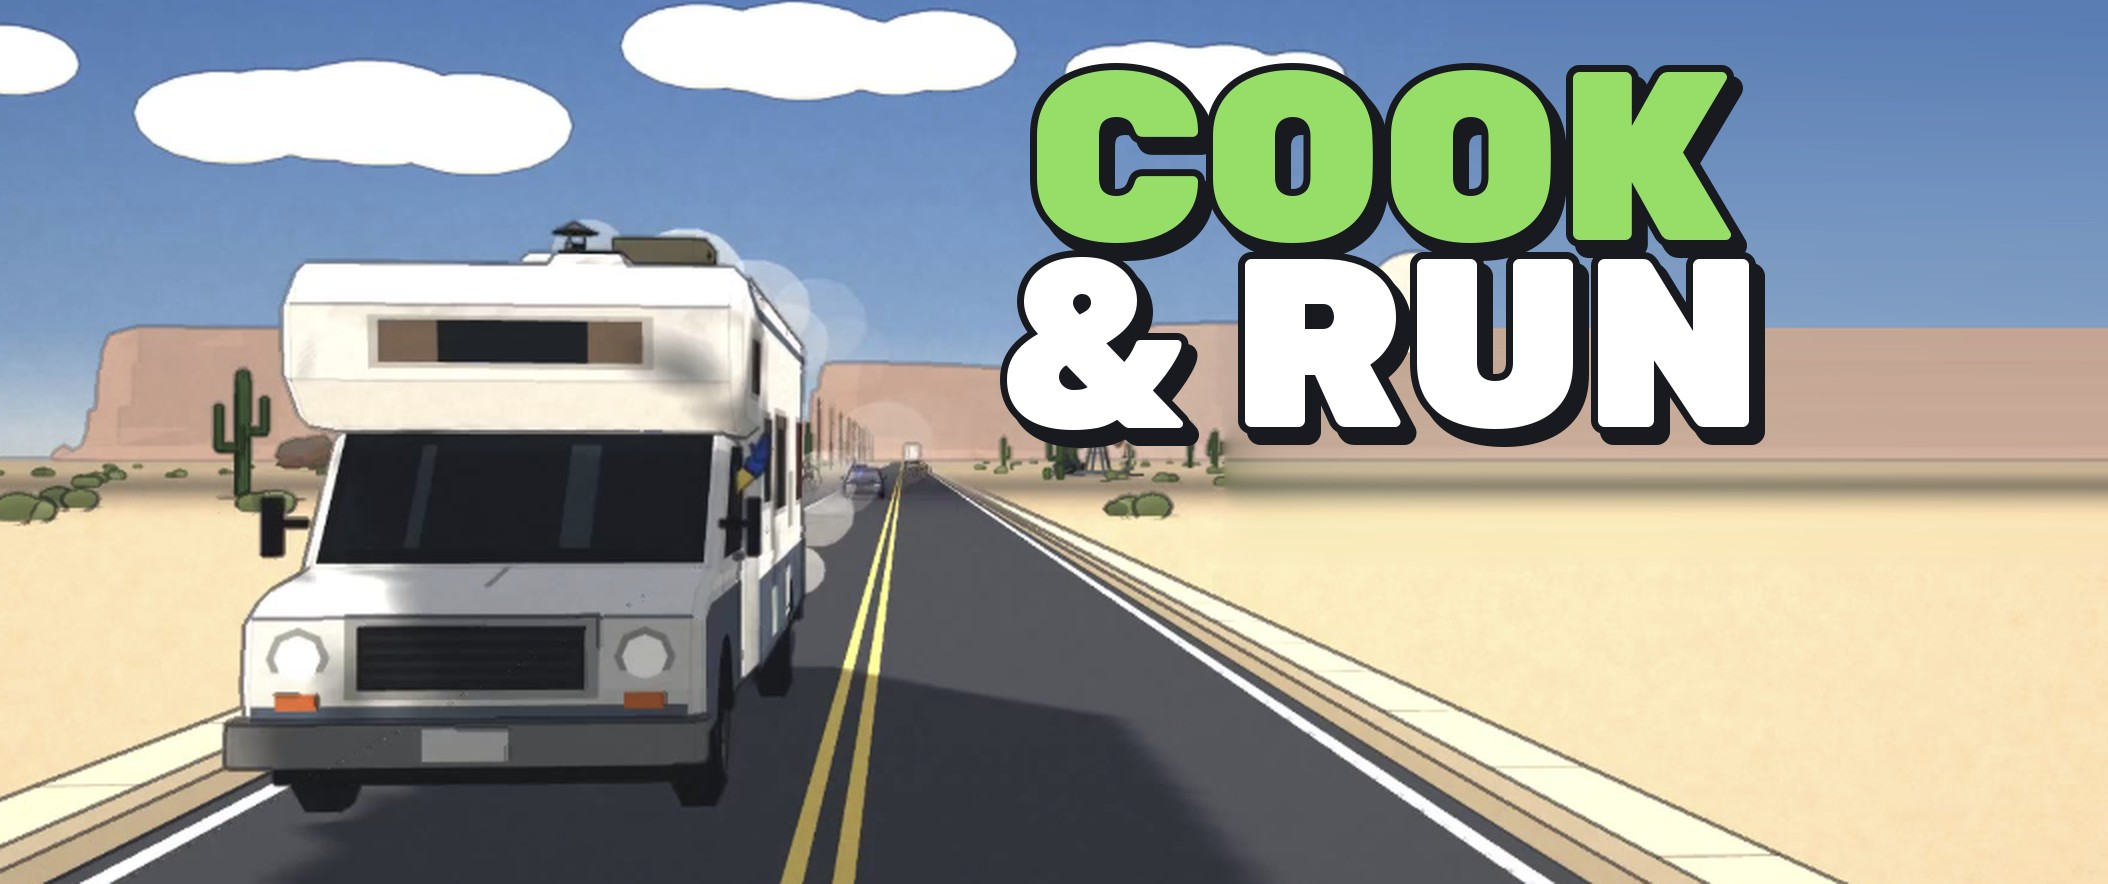
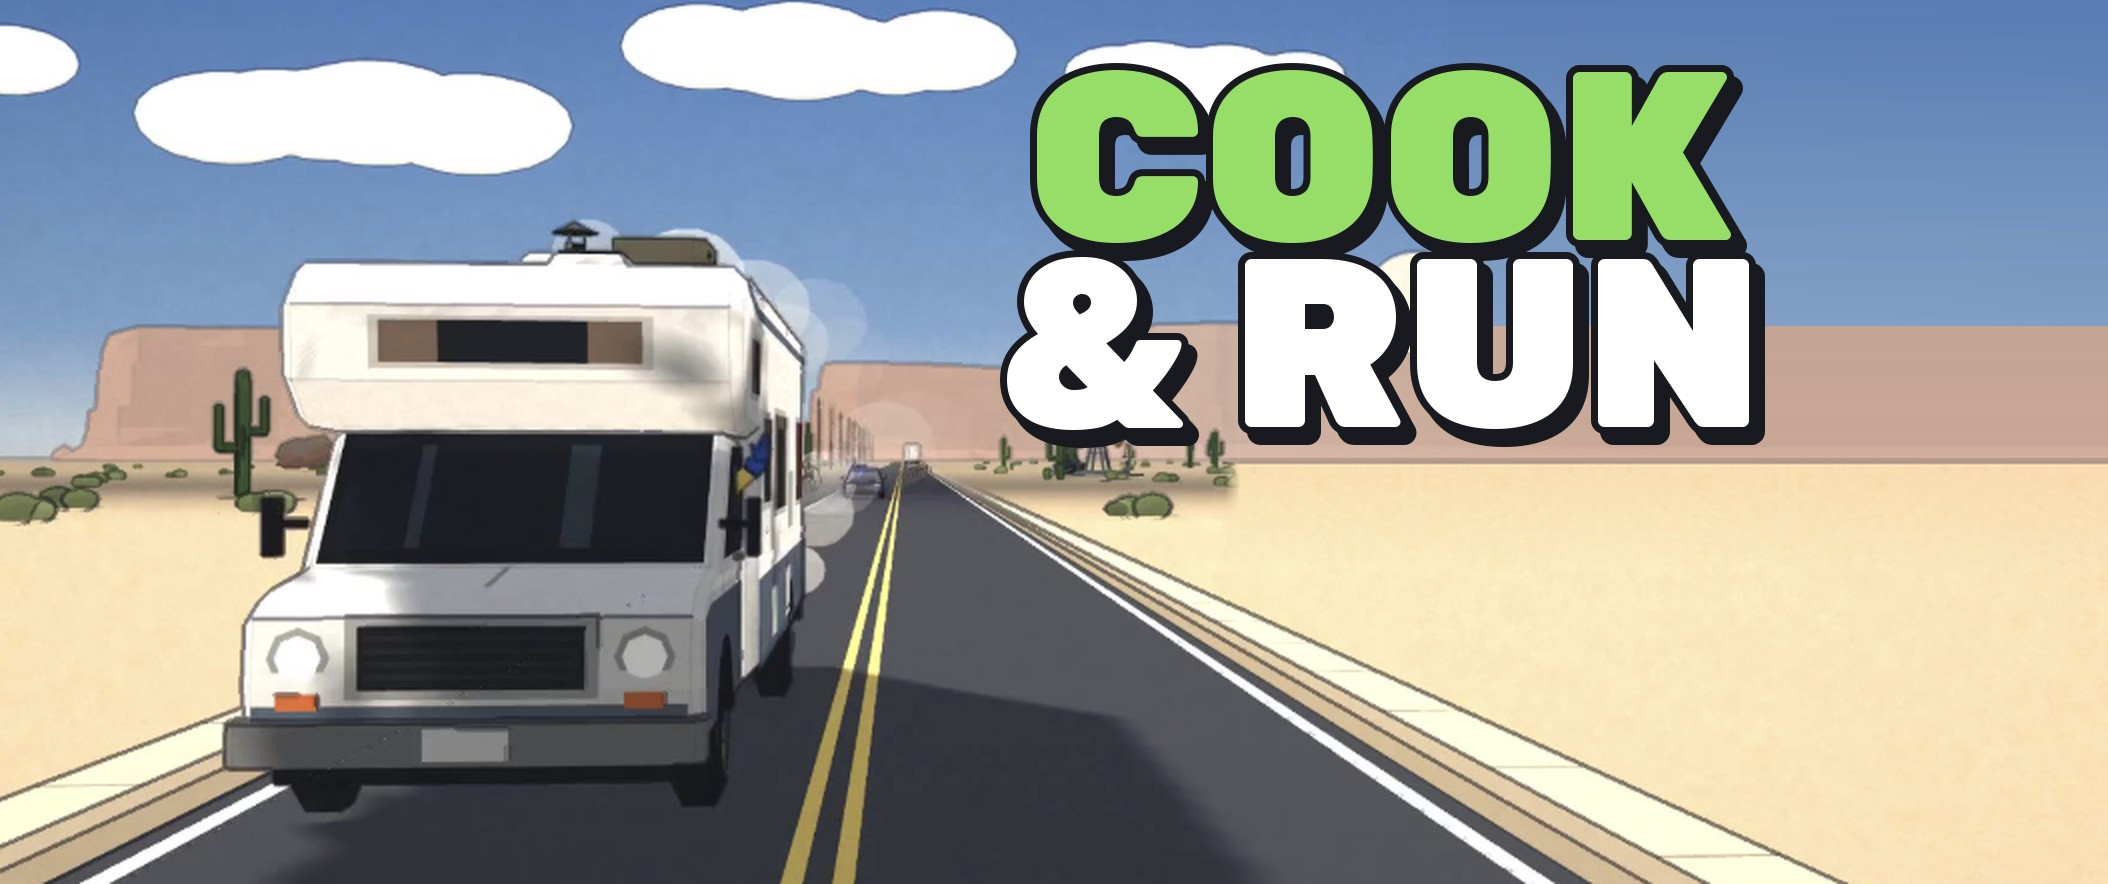
Cook & Run cover: sharpen the desert under the title
Replace the smeared horizon band with a crisp mesa line and textured sand.

Changed region(s): [[0.555, 0.4887, 1.0, 0.5803]]

diff --git a/index.html b/index.html
@@ -115,7 +115,7 @@
         <!-- Cook & Run -->
         <a class="project project--wide reveal" href="https://cook-run.onrender.com" target="_blank" rel="noopener" style="--accent: #e0a92e">
           <div class="project-art" aria-hidden="true">
-            <img class="shot" src="/assets/previews/cook-run.jpg?v=5" alt="" style="--shot-pos: 70% center" width="2108" height="884" loading="lazy" decoding="async">
+            <img class="shot" src="/assets/previews/cook-run.jpg?v=6" alt="" style="--shot-pos: 70% center" width="2108" height="884" loading="lazy" decoding="async">
           </div>
           <div class="project-meta">
             <div>
